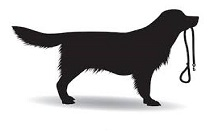
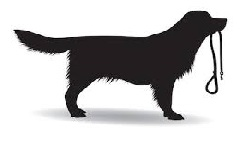
Adding a title image: size adustments

diff --git a/src/app/adopt/adopt.component.ts b/src/app/adopt/adopt.component.ts
@@ -56,7 +56,7 @@ export class AdoptComponent implements OnInit {
     if (this.rest.currentUserValue) {
 
       const dialogRef = this.dialog.open(AddDogComponent, {
-        width: '650px', data: { 
+        width: '720px', data: { 
           dog: {...dog},
           new: false,
           day: moment(this.convertToDate(dog.born)),
@@ -125,7 +125,7 @@ export class AdoptComponent implements OnInit {
     dog.images = [];
 
     const dialogRef = this.dialog.open(AddDogComponent, {
-      width: '650px', data: { 
+      width: '720px', data: { 
         dog: {...dog},
         new: true,
         day: undefined,

diff --git a/src/app/crop-image/crop-image.component.html b/src/app/crop-image/crop-image.component.html
@@ -3,9 +3,9 @@
 <image-cropper style="max-height: 600px"
   [imageChangedEvent]="imageChangedEvent"
   [maintainAspectRatio]="true"
-  [aspectRatio]="210 / 131"
-  [resizeToWidth]="210"
-  [cropperMinWidth]="210"
+  [aspectRatio]="240 / 148"
+  [resizeToWidth]="240"
+  [cropperMinWidth]="240"
   [onlyScaleDown]="true"
   [roundCropper]="false"
   format="png"
